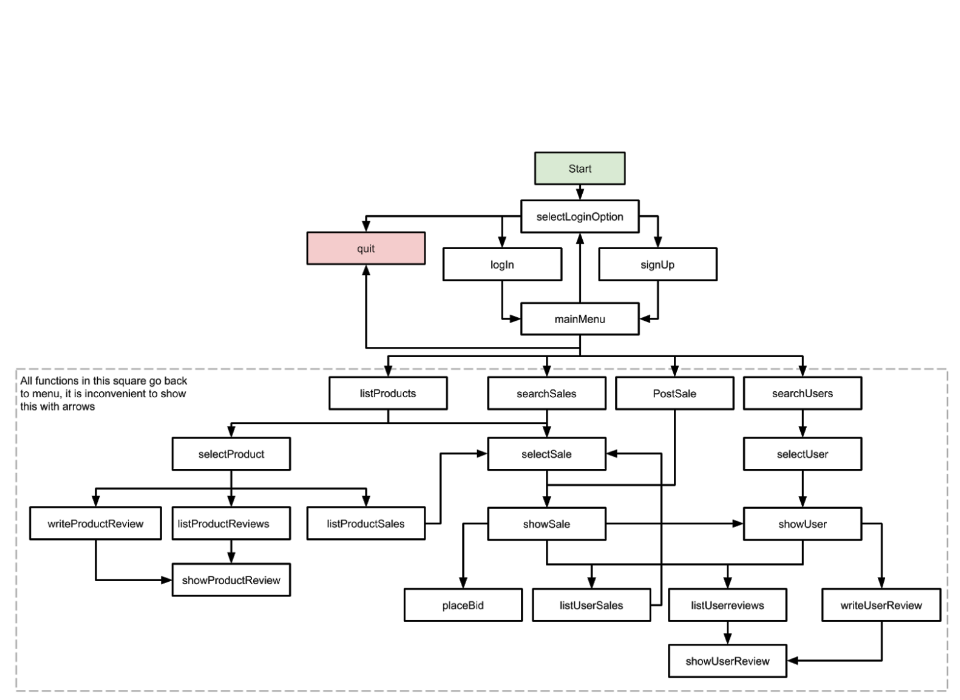
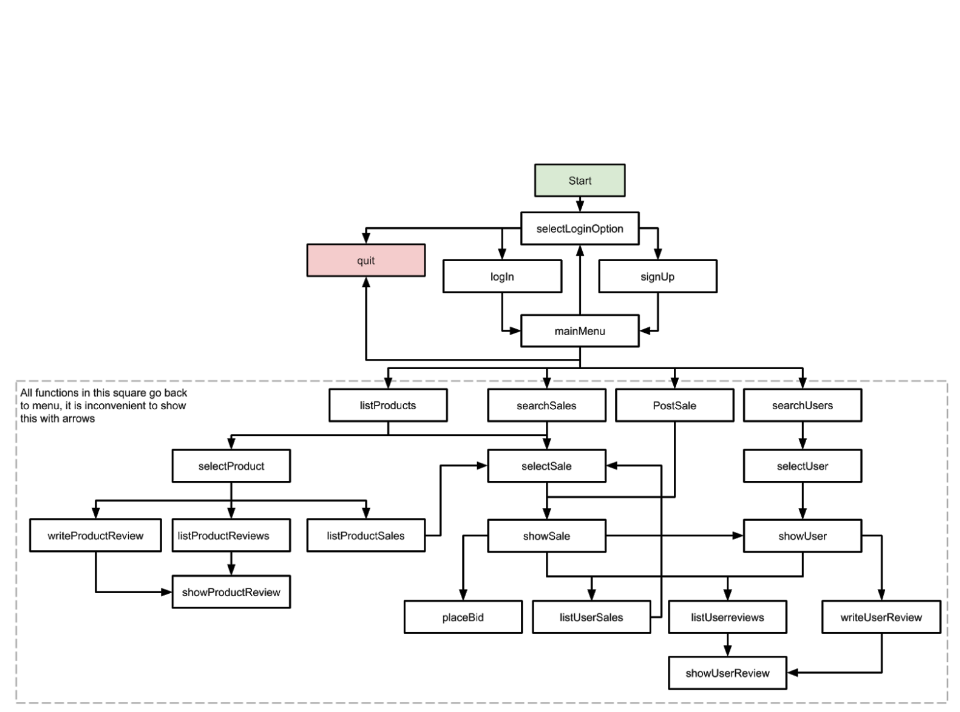
Minor spacing changes

Changed region(s): [[0.0, 0.21, 1.0, 0.96], [0.8438, 0.81, 0.9688, 0.9]]

diff --git a/_posts/2022-03-13-This-Website.md b/_posts/2022-03-13-This-Website.md
@@ -1,7 +1,7 @@
 ---
 layout: inner
 position: right
-title: 'My website'
+title: 'This website!'
 date: 2022-03-13 00:00:00
 categories: Individual-Project Web-Development
 tags: HTML Javascript Markdown
